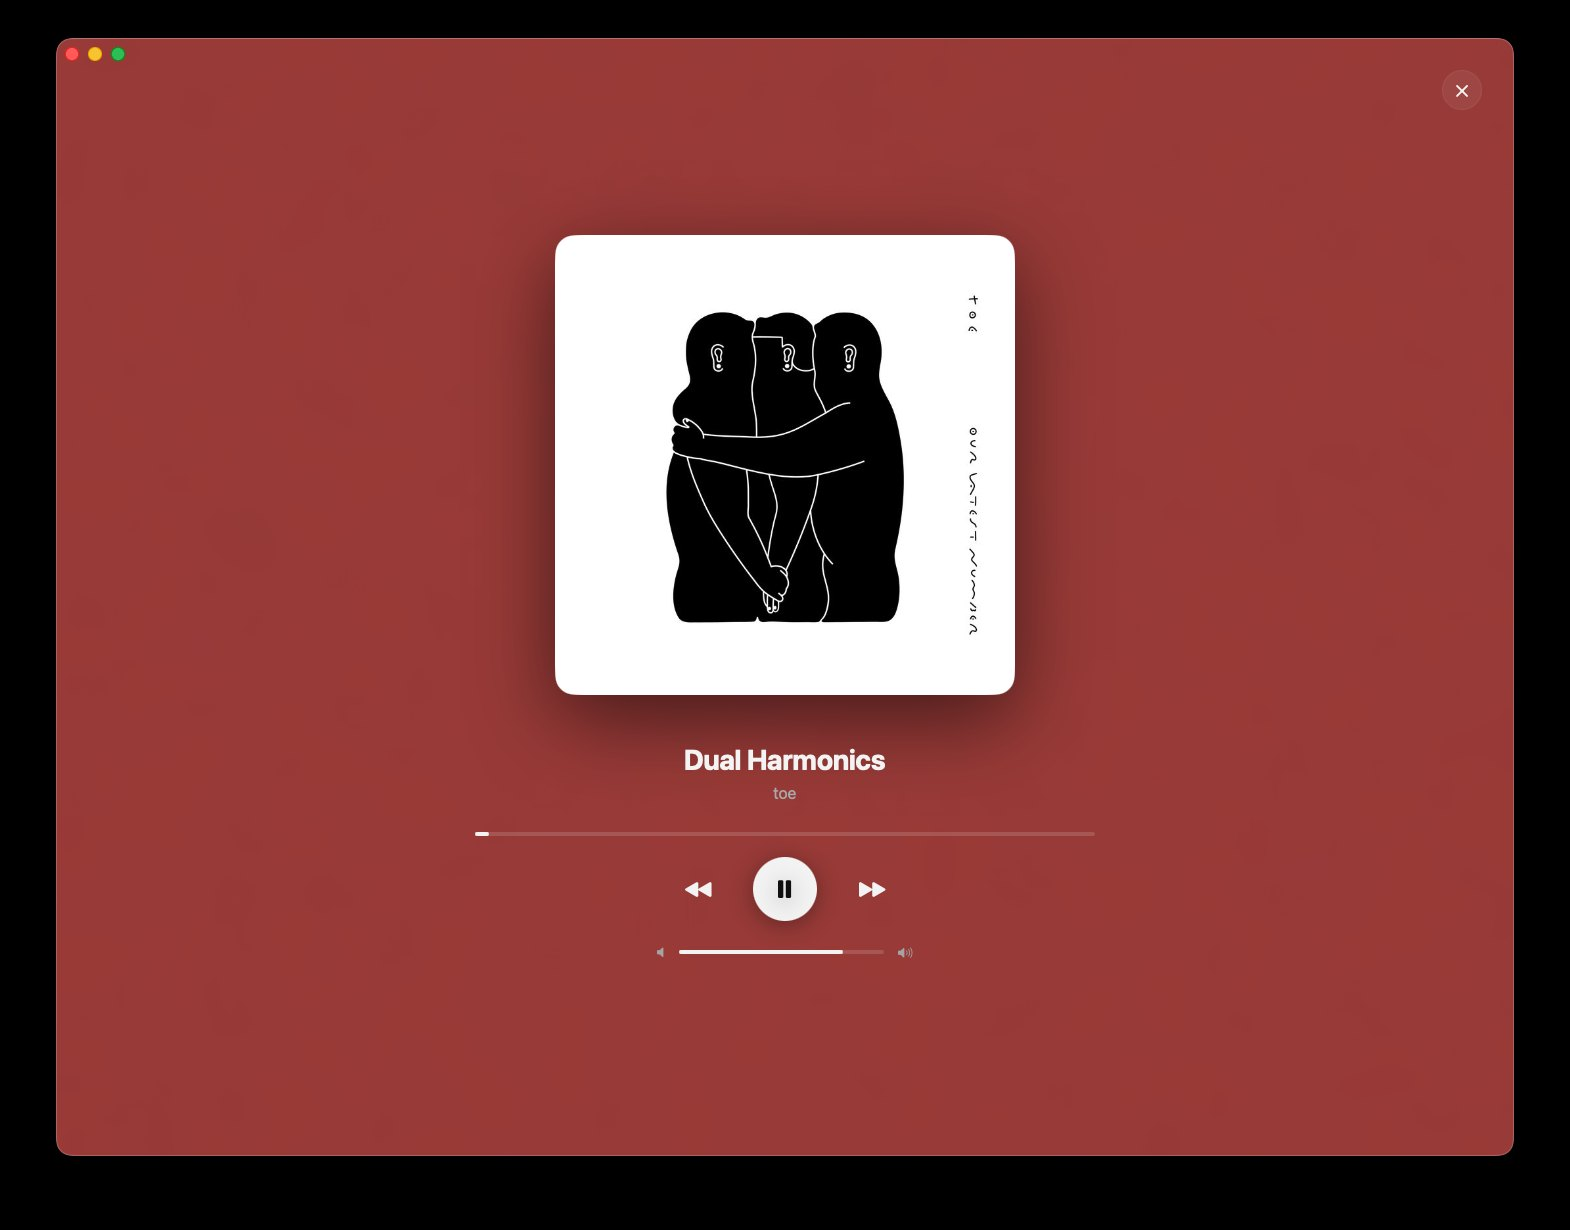
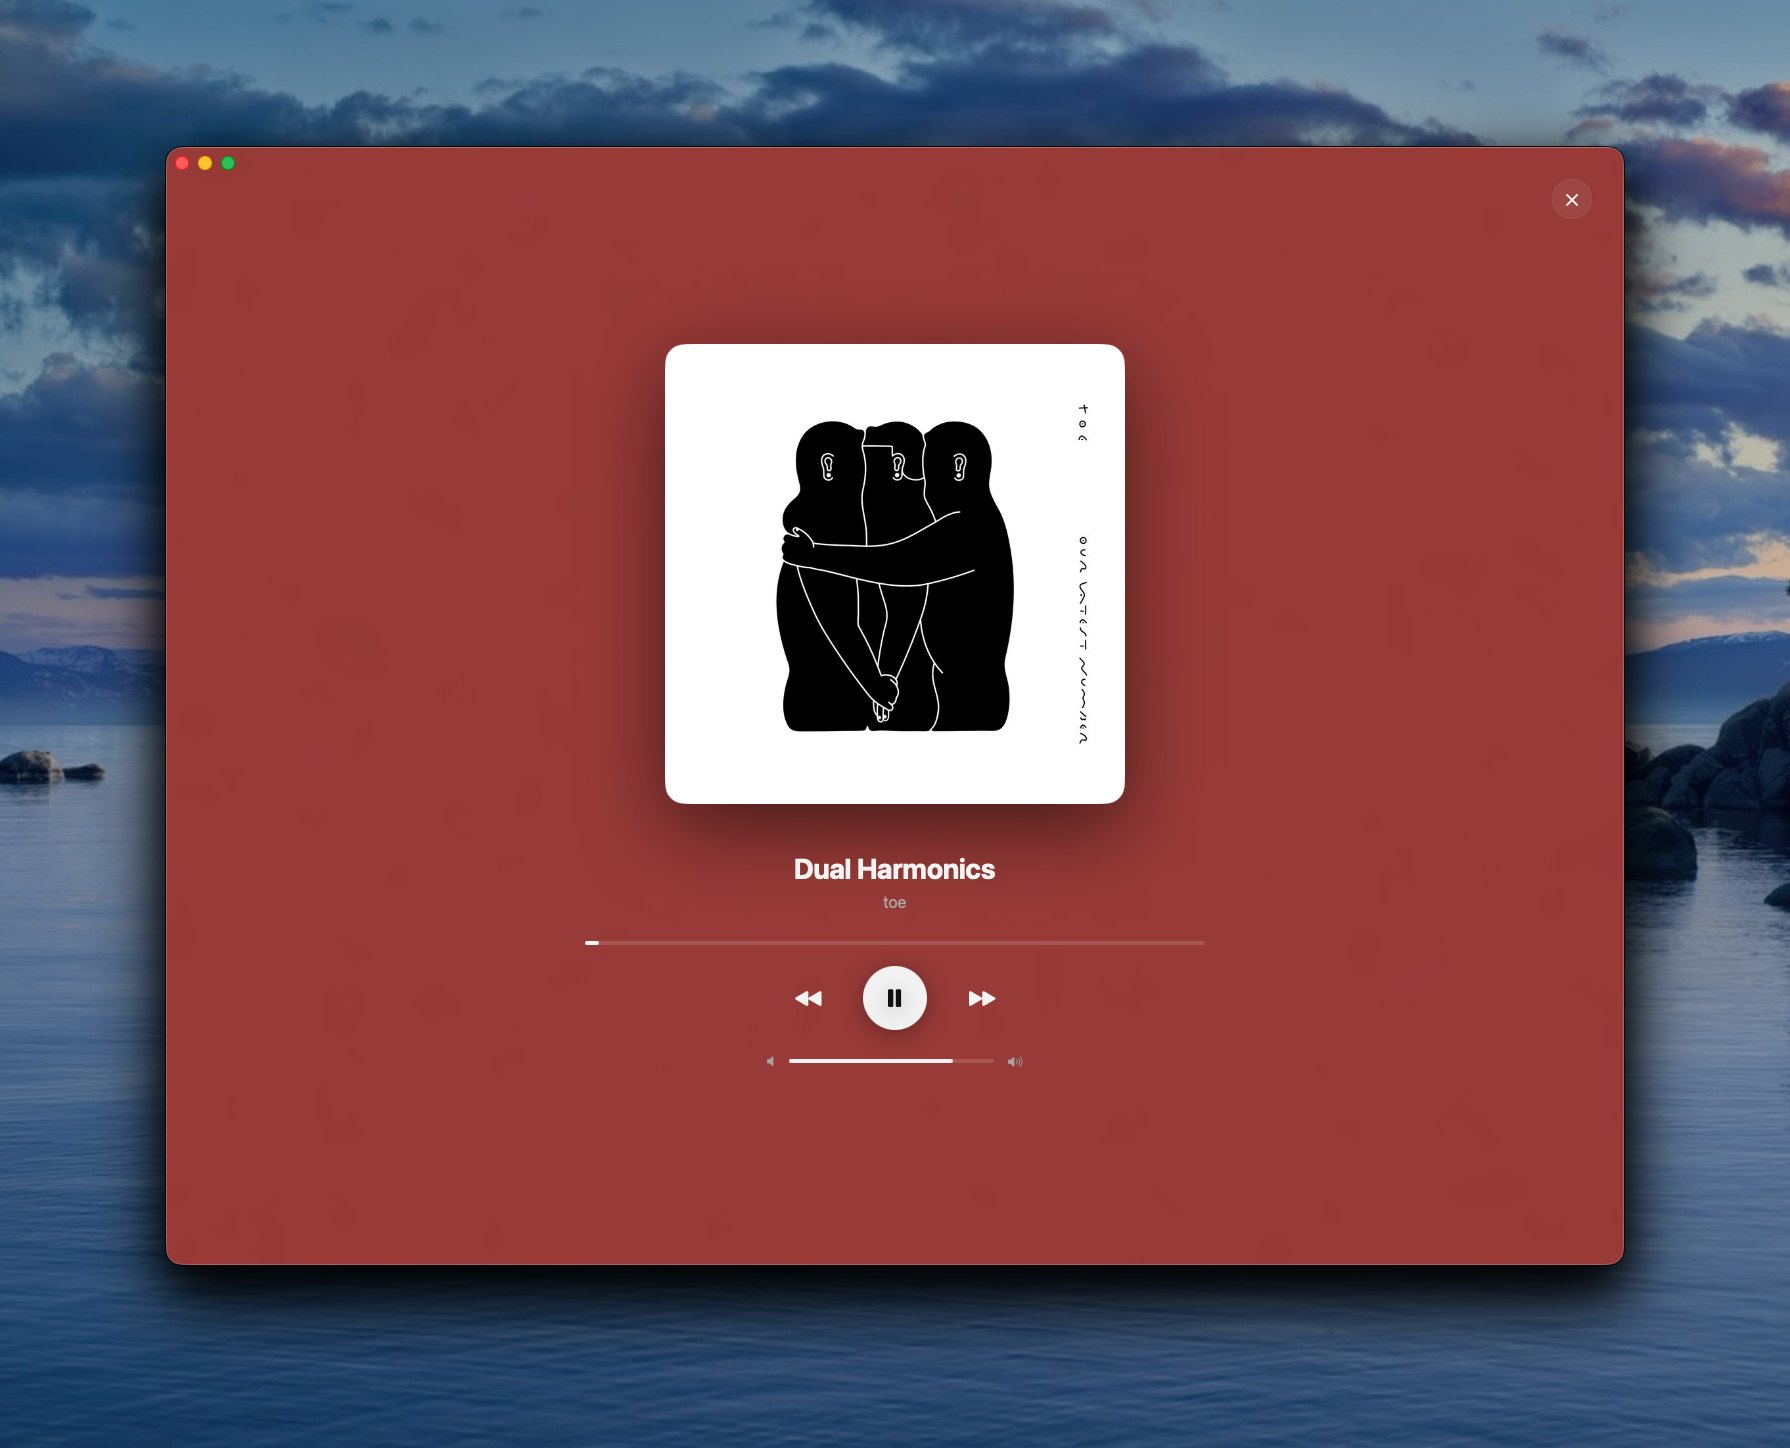
Yoin gallery: composite all 10 shots onto the Tahoe wallpaper (window + shadow on the desktop) to match the site's mockup style; update img dimensions

diff --git a/yoin/index.html b/yoin/index.html
@@ -69,16 +69,16 @@
       </div>
 
       <div class="shots">
-        <figure class="shot"><img src="/assets/work/yoin-crate.jpg" width="1570" height="1230" loading="eager" fetchpriority="high" decoding="async" alt="Yoin's Crate view — album covers fanned out in a cover-flow, with a Now Spinning panel showing the current record" /><figcaption>Your collection as a crate — flip through the covers</figcaption></figure>
-        <figure class="shot"><img src="/assets/work/yoin-lyrics.jpg" width="2000" height="1248" loading="lazy" decoding="async" alt="Yoin's Now Playing screen with time-synced lyrics scrolling beside the spinning record" /><figcaption>Now Playing with time-synced lyrics</figcaption></figure>
-        <figure class="shot"><img src="/assets/work/yoin-turntable.jpg" width="1570" height="1230" loading="lazy" decoding="async" alt="Yoin's turntable Now Playing — the record on a platter with a DJ speed fader" /><figcaption>A turntable Now Playing with DJ speed control</figcaption></figure>
-        <figure class="shot"><img src="/assets/work/yoin-album.jpg" width="1570" height="1230" loading="lazy" decoding="async" alt="Yoin's album view — the track list for an album with play, download and credits" /><figcaption>Every album, with its tracks and credits</figcaption></figure>
-        <figure class="shot"><img src="/assets/work/yoin-map.jpg" width="1292" height="1012" loading="lazy" decoding="async" alt="Yoin's collection map — a world map with pins for where each artist is from, and the albums from a selected country" /><figcaption>A world map of where your music comes from</figcaption></figure>
-        <figure class="shot"><img src="/assets/work/yoin-playlists.jpg" width="1570" height="1230" loading="lazy" decoding="async" alt="Yoin's Playlists view — Liked Songs, hand-made playlists and an auto-updating smart playlist" /><figcaption>Playlists, Liked Songs and smart, auto-updating sets</figcaption></figure>
-        <figure class="shot"><img src="/assets/work/yoin-wishlist.jpg" width="1570" height="1230" loading="lazy" decoding="async" alt="Yoin's Wishlist — a wall of album artwork you want, with a Friends panel open" /><figcaption>A wishlist wall — and friends to follow</figcaption></figure>
-        <figure class="shot"><img src="/assets/work/yoin-friends.jpg" width="1570" height="1230" loading="lazy" decoding="async" alt="Yoin showing a friend's collection and wishlist in a side panel" /><figcaption>Peek a friend's collection and wishlist</figcaption></figure>
-        <figure class="shot"><img src="/assets/work/yoin-mini.jpg" width="1570" height="1230" loading="lazy" decoding="async" alt="Yoin's floating mini player with the background glowing in the album's colour" /><figcaption>A floating mini player with ambient theming</figcaption></figure>
-        <figure class="shot"><img src="/assets/work/yoin-recap.jpg" width="1570" height="1230" loading="lazy" decoding="async" alt="Yoin's shareable monthly recap card — tracks, minutes, albums and top artist for the month" /><figcaption>A shareable monthly recap of what you played</figcaption></figure>
+        <figure class="shot"><img src="/assets/work/yoin-crate.jpg" width="1790" height="1448" loading="eager" fetchpriority="high" decoding="async" alt="Yoin's Crate view — album covers fanned out in a cover-flow, with a Now Spinning panel showing the current record" /><figcaption>Your collection as a crate — flip through the covers</figcaption></figure>
+        <figure class="shot"><img src="/assets/work/yoin-lyrics.jpg" width="2000" height="1341" loading="lazy" decoding="async" alt="Yoin's Now Playing screen with time-synced lyrics scrolling beside the spinning record" /><figcaption>Now Playing with time-synced lyrics</figcaption></figure>
+        <figure class="shot"><img src="/assets/work/yoin-turntable.jpg" width="1790" height="1448" loading="lazy" decoding="async" alt="Yoin's turntable Now Playing — the record on a platter with a DJ speed fader" /><figcaption>A turntable Now Playing with DJ speed control</figcaption></figure>
+        <figure class="shot"><img src="/assets/work/yoin-album.jpg" width="1790" height="1448" loading="lazy" decoding="async" alt="Yoin's album view — the track list for an album with play, download and credits" /><figcaption>Every album, with its tracks and credits</figcaption></figure>
+        <figure class="shot"><img src="/assets/work/yoin-map.jpg" width="1472" height="1191" loading="lazy" decoding="async" alt="Yoin's collection map — a world map with pins for where each artist is from, and the albums from a selected country" /><figcaption>A world map of where your music comes from</figcaption></figure>
+        <figure class="shot"><img src="/assets/work/yoin-playlists.jpg" width="1790" height="1448" loading="lazy" decoding="async" alt="Yoin's Playlists view — Liked Songs, hand-made playlists and an auto-updating smart playlist" /><figcaption>Playlists, Liked Songs and smart, auto-updating sets</figcaption></figure>
+        <figure class="shot"><img src="/assets/work/yoin-wishlist.jpg" width="1790" height="1448" loading="lazy" decoding="async" alt="Yoin's Wishlist — a wall of album artwork you want, with a Friends panel open" /><figcaption>A wishlist wall — and friends to follow</figcaption></figure>
+        <figure class="shot"><img src="/assets/work/yoin-friends.jpg" width="1790" height="1448" loading="lazy" decoding="async" alt="Yoin showing a friend's collection and wishlist in a side panel" /><figcaption>Peek a friend's collection and wishlist</figcaption></figure>
+        <figure class="shot"><img src="/assets/work/yoin-mini.jpg" width="1790" height="1448" loading="lazy" decoding="async" alt="Yoin's floating mini player with the background glowing in the album's colour" /><figcaption>A floating mini player with ambient theming</figcaption></figure>
+        <figure class="shot"><img src="/assets/work/yoin-recap.jpg" width="1790" height="1448" loading="lazy" decoding="async" alt="Yoin's shareable monthly recap card — tracks, minutes, albums and top artist for the month" /><figcaption>A shareable monthly recap of what you played</figcaption></figure>
       </div>
     </main>
 
